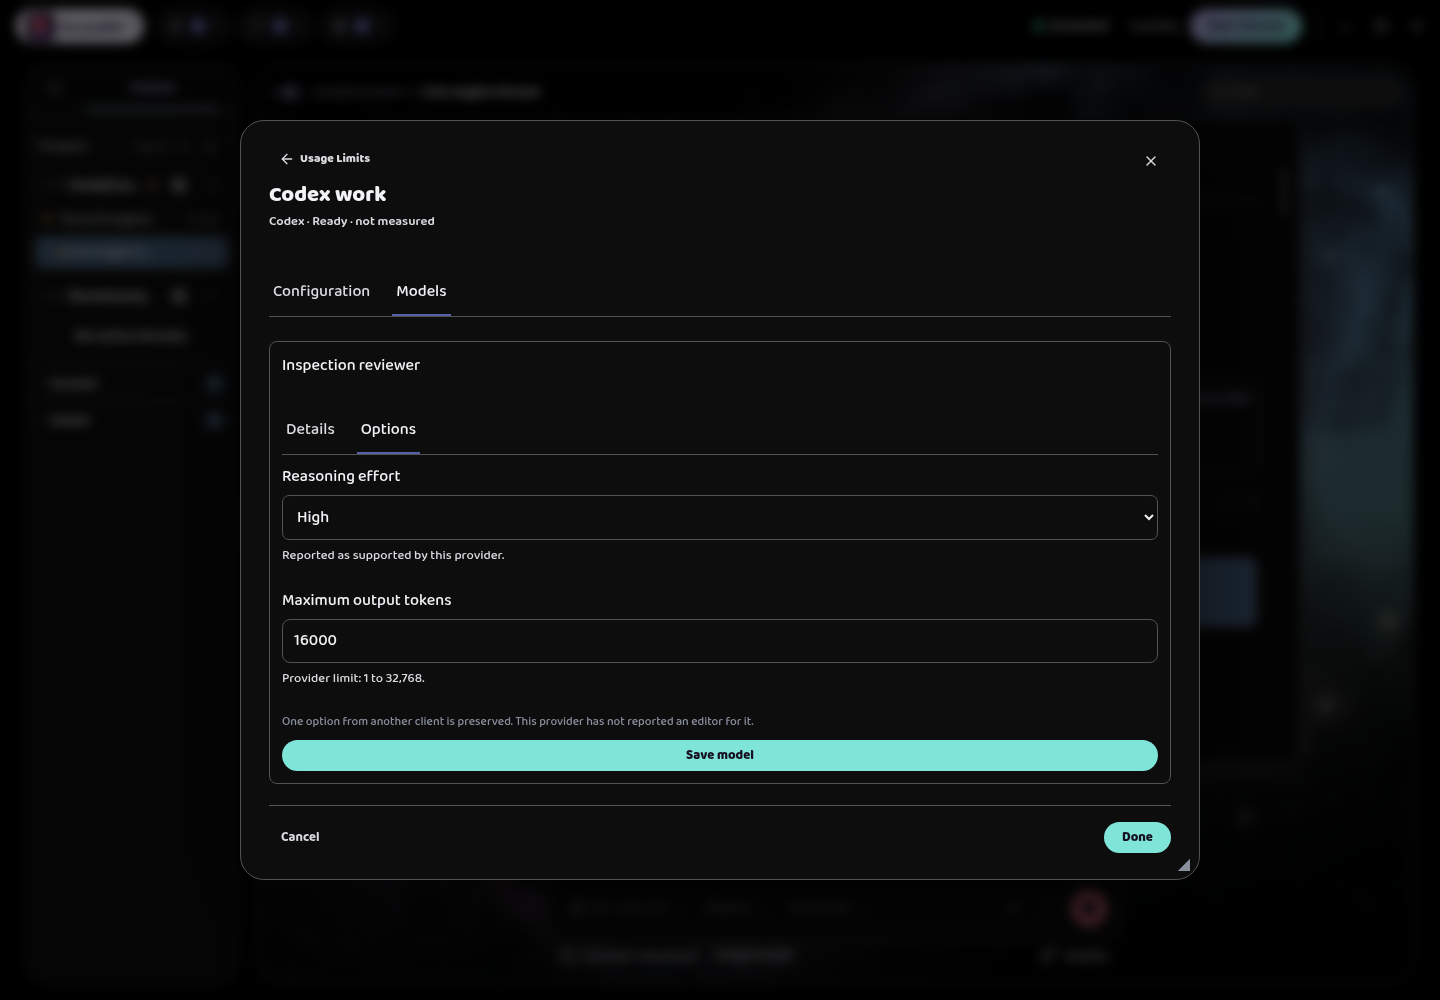
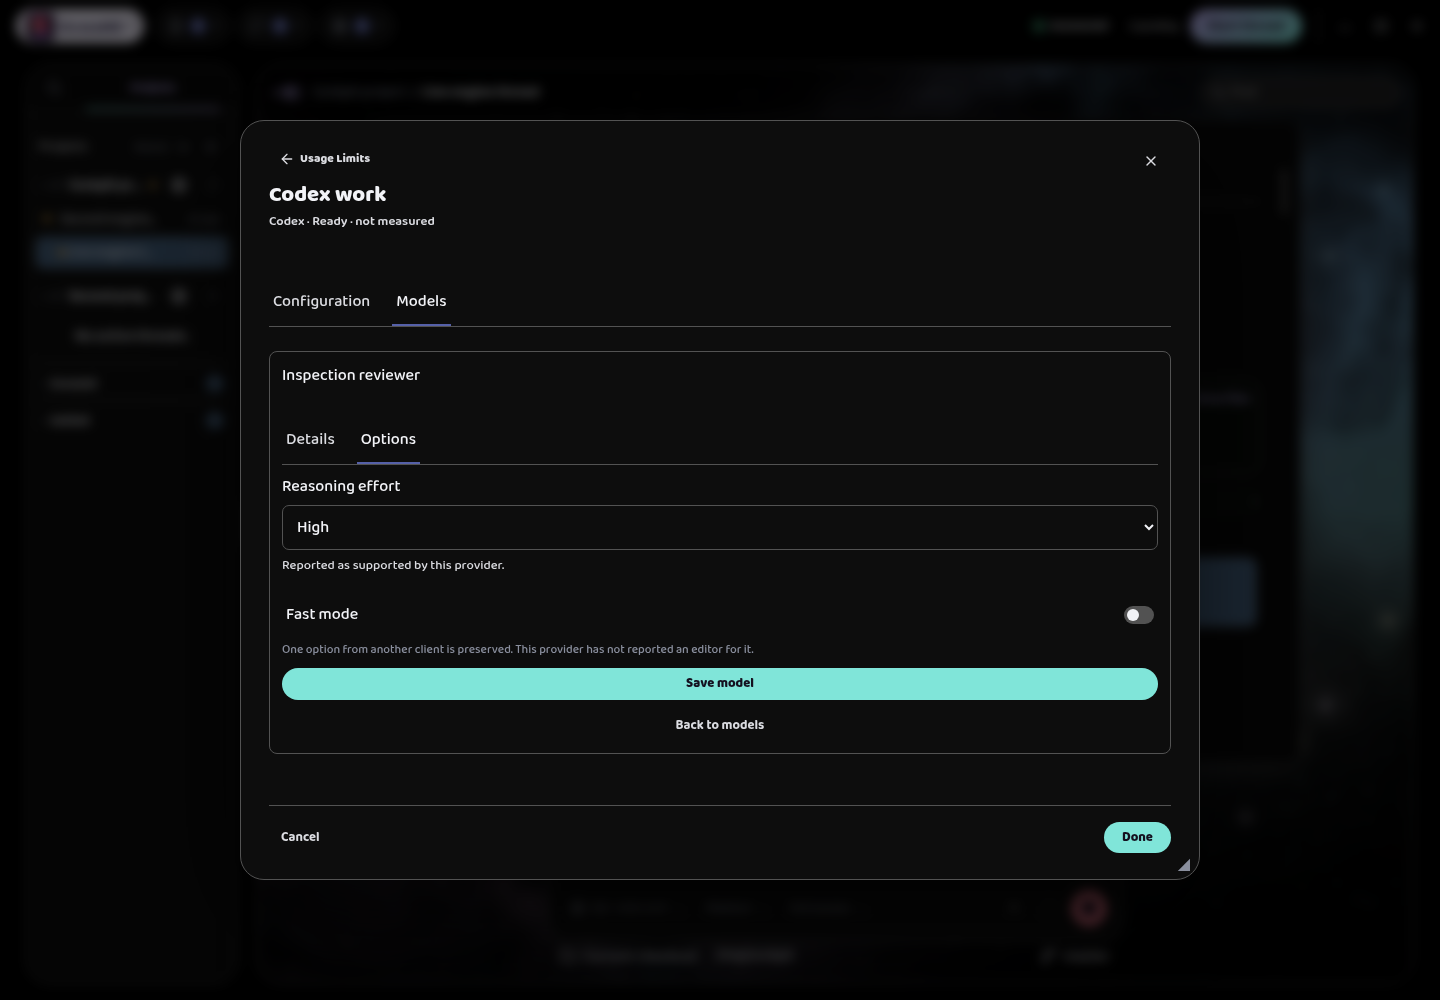
docs: align model option benchmarks with T3 descriptors

Changed region(s): [[0.1875, 0.279, 0.8125, 0.775], [0.7812, 0.589, 0.8125, 0.62]]

diff --git a/docs/design/t3-additions-2026-09-08/v2/proposals.js b/docs/design/t3-additions-2026-09-08/v2/proposals.js
@@ -202,8 +202,8 @@ window.Proposals = (() => {
     // Opening model details replaces the model list below its existing tab bar.
     // It does not append a second editor underneath the add-model form.
     [...fieldset.children].filter(e=>!e.matches('.setup-tabs')).forEach(e=>e.remove());
-    const panel=add(fieldset,`<section class="proposal-stack proposal-model-editor"><h3>Inspection reviewer</h3>${tabs('Model editor',[['edit','Details'],['options','Options']],state==='edit'?'edit':'options')}${state==='edit'?field('Display name','Inspection reviewer','Shown in model lists and the composer.'):select('Reasoning effort',['High','Medium','Low'],'Reported as supported by this provider.')+field('Maximum output tokens',state==='invalid'?'lots':'16000','Provider limit: 1 to 32,768.',state==='invalid'?'aria-invalid="true"':'inputmode="numeric"')}${state==='invalid'?'<p class="proposal-invalid" role="alert">Enter a whole number between 1 and 32,768.</p>':''}${note(state==='edit'?'Provider ID: gpt-5.6. Renaming does not change the model sent to the engine.':'One option from another client is preserved. This provider has not reported an editor for it.')}${button('Save model',state==='edit'?'options':state==='invalid'?'options':'list',true,state==='invalid')}</section>`,'Custom model name, supported options, and validation');
-    if(state==='options')panel.querySelector('input').addEventListener('input',e=>{if(!/^\d+$/.test(e.target.value))parent.postMessage({type:'strata-mockup-state',flow:'models',state:'invalid'},location.origin)});
+    const panel=add(fieldset,`<section class="proposal-stack proposal-model-editor"><h3>Inspection reviewer</h3>${tabs('Model editor',[['edit','Details'],['options','Options']],state==='edit'?'edit':'options')}${state==='edit'?field('Display name','Inspection reviewer','Shown in model lists and the composer.'):`<label class="setup-field">Reasoning effort<select aria-label="Reasoning effort" ${state==='invalid'?'aria-invalid="true"':''}>${state==='invalid'?'<option selected disabled>lots (unsupported)</option>':''}<option ${state==='options'?'selected':''}>High</option><option>Low</option></select><small>Reported as supported by this provider.</small></label><button type="button" role="switch" class="setup-switch" aria-label="Fast mode" aria-checked="false"><span aria-hidden="true"><i></i></span>Fast mode</button>`}${state==='invalid'?'<p class="proposal-invalid" role="alert">Choose a supported value for Reasoning effort in Options.</p>':''}${note(state==='edit'?'Provider ID: gpt-5.6. Renaming does not change the model sent to the engine.':'One option from another client is preserved. This provider has not reported an editor for it.')}${button('Save model',state==='edit'?'options':state==='invalid'?'options':'list',true,state==='invalid')}${button('Back to models','list')}</section>`,'Custom model name, supported options, and validation');
+    panel.querySelector('[role="switch"]')?.addEventListener('click',e=>{const control=e.currentTarget;control.setAttribute('aria-checked',String(control.getAttribute('aria-checked')!=='true'));});
   }
   const renderers={questions,files,usage,compact,skills,drafts,defaults,import:importFlow,evidence,capture,recovery,models};
   async function render(flow,state){

diff --git a/docs/design/t3-additions-2026-09-08/v2/benchmark-guide.md b/docs/design/t3-additions-2026-09-08/v2/benchmark-guide.md
@@ -80,3 +80,7 @@ These checks cover the design exports at the fixed benchmark size. They do not c
 - `tools/capture-benchmarks.py`: repeatable capture and comparison using agent-browser.
 
 The existing gallery service serves this directory tree at port 43871. Re-running static captures needs that service, agent-browser, Python, Pillow, and NumPy. It does not need the isolated app to remain open. Recreating original renderer exports needs a matching build, the repository's isolated Electron fixture, and the explicit Strata theme override. Never use the owner's running app or profile as a fixture.
+
+## Model option contract correction
+
+The numeric maximum-output example was replaced with T3-supported select and boolean controls: Reasoning effort and Fast mode. The invalid state shows an unsupported stored value and prevents saving. The model editor retains the approved layout and uses Strata's existing Switch. This corrects the fixture to the actual provider contract; it does not add a numeric option type or change the saved owner approval.
